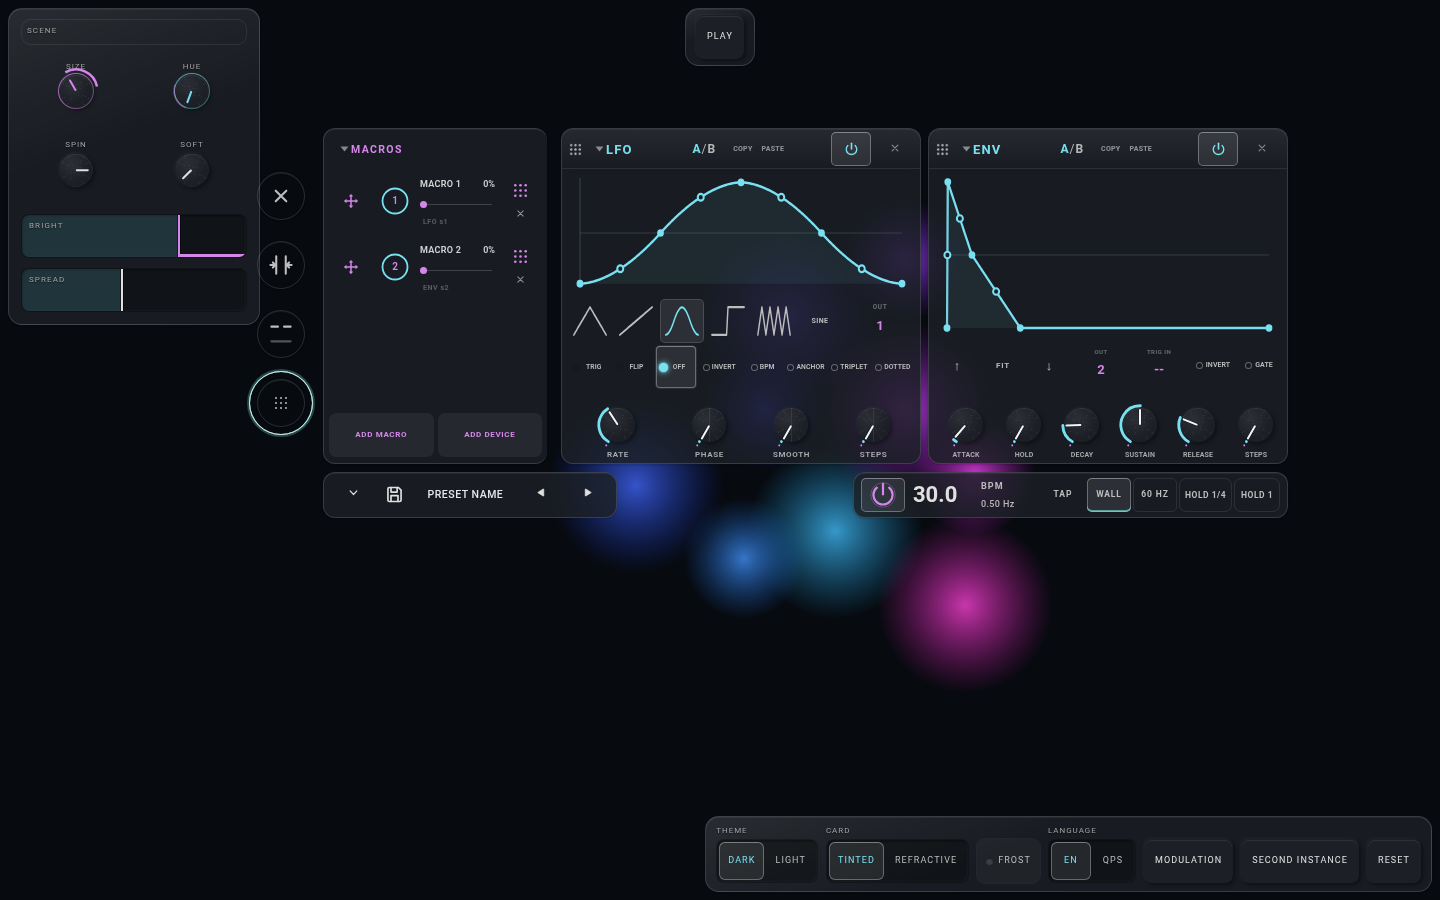
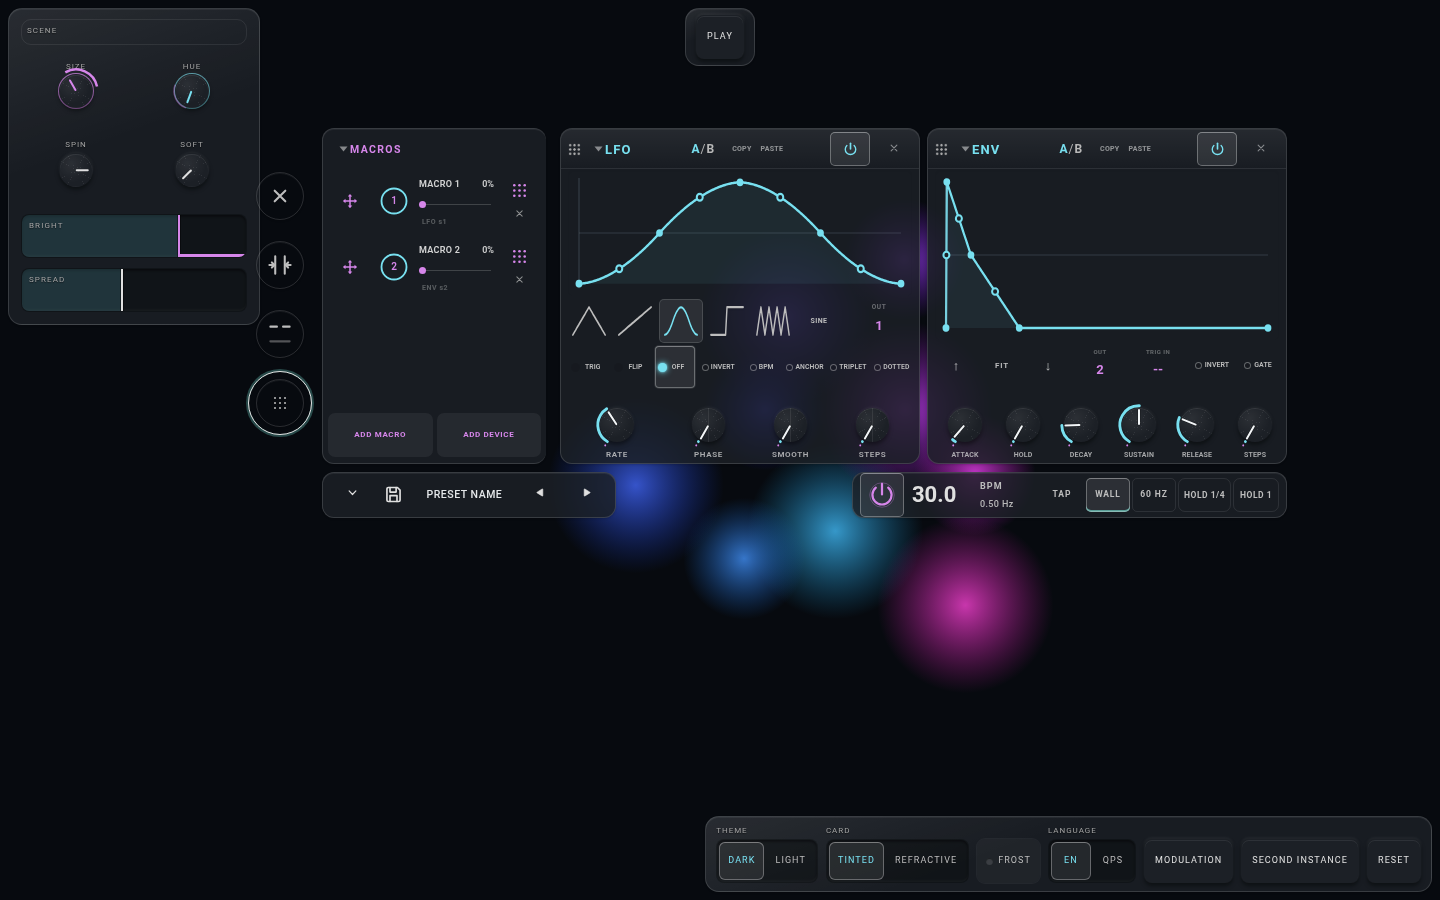
MIR 1.5.0-alpha.5: MODULATION — the docked work bar follows the last device; docked chips sit tighter
BASINS 2026-10-01 (Josh): docked, the right work bar ends at min(last device, run) as floating — the kit already
measured it so; the browser test now pins it (two devices, an overflowing run, every bar button hit).  A rail docked
at the top or bottom carries data-dock (rail.js setDock) and sits tighter along it: each chip its 48 px disc +
--rail-gap, --rail-gap apart (8 px disc to disc at the default, 4 tight, 0 flush; --rail-gap is two thirds of
SPACING's --rack-gap, at most 4); across, the 62 px target and the dock lane are unchanged.  window.css and
modhost.css carry it; the modulation controller sets it; window.js needs a one-line hunk (the join).  A status
message is no longer overwritten by the idle hint on a language change.  Plates retaken.

Claude-Session: https://claude.ai/code/session_01216PZJdRDXuZKuuo4X6KUw

diff --git a/mir/window/rail.js b/mir/window/rail.js
@@ -121,7 +121,10 @@ export const markForwarded = (e) => { forwarded.add(e); return e; };
  *  seats() → [{ id: side, rect }] — where the rail would land on each side (the window's own layout); onSide(side,
  *  phase) with phase 'preview' (keyboard, live), 'commit' or 'cancel' (back to where the keyboard started).
  *  → { el, grip, chip(name), setChip(name, state), state(name), measure(), sizes(), seat(seat, { animate }),
- *      holding(), destroy() } */
+ *      setDock(dock), holding(), destroy() }
+ *  setDock('top' | 'bottom' | null) — the rail carries its window's dock (data-dock): docked at the top or bottom, the
+ *  chips sit tighter along it (window.css, --rail-gap; BASINS 2026-10-01).  Its length changes, so the next sizes()
+ *  measures again; its width across does not (the dock lane is measured from it). */
 export function createRail({ id, title, chips = [], layer, seats, onChip, onSide, onNudge } = {}) {
   const doc = (layer && layer.ownerDocument) || document;
   const el = doc.createElement('div');
@@ -183,6 +186,7 @@ export function createRail({ id, title, chips = [], layer, seats, onChip, onSide
     size = v ? { vertical: a, horizontal: b } : { vertical: b, horizontal: a };
     return size;
   }
+  let stale = false;                                                 // the dock changed the rail's length: measure again
   /** seat(s, { animate }) — land the rail on a seat from seatRail().  Animated: the same orientation travels by
    *  tweenRect (position only), a turn of orientation lands at once and travels by flip. */
   const pos = (n, to) => { setVar(n, 'left', `${Math.round(to.left)}px`); setVar(n, 'top', `${Math.round(to.top)}px`); };
@@ -246,8 +250,9 @@ export function createRail({ id, title, chips = [], layer, seats, onChip, onSide
     chip: (name) => nodes.get(name),
     setChip, state: (name) => states.get(name),
     /* before the rail has ever been seen, the kit's chip target (62) and gap (7) stand in for a measurement */
-    measure, sizes: () => size || measure() || { vertical: { w: 62, h: 69 * nodes.size - 7 }, horizontal: { w: 69 * nodes.size - 7, h: 62 } },
+    measure, sizes: () => { if (stale) { stale = false; measure(); } return size || measure() || { vertical: { w: 62, h: 69 * nodes.size - 7 }, horizontal: { w: 69 * nodes.size - 7, h: 62 } }; },
     seat,
+    setDock(dock) { const d = dock === 'top' || dock === 'bottom' ? dock : null; if ((el.dataset.dock || null) === d) return; setAttr(el, 'data-dock', d); stale = true; },
     /** true from a long press until the next press: the window's drag stands down for it */
     holding: () => held,
     destroy() { holdCancel({}); prox.destroy(); el.remove(); },

diff --git a/mir/modulation/modhost.css b/mir/modulation/modhost.css
@@ -172,6 +172,10 @@
   /* 1.5.0-alpha.4 · modulation's POWER (BASINS transport-controls.css, its numbers): the drawing's weight and size, the
      halo at rest and lit, the ring's gap while off, and the press motion */
   --m2-power-sw: 1.9;
+  /* 1.5.0-alpha.5 · the docked rail's gap, as the window set's (window.css): two thirds of SPACING's --rack-gap, at most 4 px */
+  --rail-gap-max: 4px;
+  --rail-gap-share: .667;
+  --rail-gap: min(var(--rail-gap-max), calc(var(--rack-gap, 6px) * var(--rail-gap-share)));
   --m2-power-on-ink: var(--acc2);     /* lit in accent B, as BASINS (the time group: the tempo beside it is accent B too) */
   --m2-power-icon: 28px;
   --m2-power-seat: 44px;             /* the power button's seat on the work bar: 44 × 44, as BASINS draws it (transport-controls.css) */
@@ -2373,6 +2377,14 @@ html body :where(.crail.crail-float)[data-mir-rail="modulation"] .crail-chip:whe
    chips lie in a row (the rail measures one orientation and turns it). */
 .kwin-chiprail[data-mir-rail="modulation"]:is([data-side="top"], [data-side="bottom"]) {
   flex-direction: row; width: auto; height: var(--chrome-chip-target); }
+/* 1.5.0-alpha.5 · DOCKED, THE CHIPS SIT TIGHTER (BASINS, Josh 2026-10-01): along the rail each chip is its disc plus
+   --rail-gap and the chips stand --rail-gap apart (21 px disc to disc became 8 at the default); across, the 62 px target
+   stays, so the dock lane does not move. */
+.kwin-chiprail[data-mir-rail="modulation"]:is([data-dock="top"], [data-dock="bottom"]) { gap: var(--rail-gap); }
+.kwin-chiprail[data-mir-rail="modulation"]:is([data-dock="top"], [data-dock="bottom"]):not([data-side="top"], [data-side="bottom"]) .crail-chip {
+  flex-basis: calc(var(--chrome-chip-disc) + var(--rail-gap)); height: calc(var(--chrome-chip-disc) + var(--rail-gap)); min-height: 0; }
+.kwin-chiprail[data-mir-rail="modulation"]:is([data-dock="top"], [data-dock="bottom"]):is([data-side="top"], [data-side="bottom"]) .crail-chip {
+  flex-basis: calc(var(--chrome-chip-disc) + var(--rail-gap)); width: calc(var(--chrome-chip-disc) + var(--rail-gap)); min-width: 0; }
 
 /* ROUTING SHOWS WHERE IT WILL LAND (core/proximity.js).  The glow's overlays live in .m2route-glow, where the accent
    is accent B — a route is a relationship — so core.css draws them in it without a rule of its own. */

diff --git a/mir/window/window.css b/mir/window/window.css
@@ -29,6 +29,12 @@
   /* ON reads the semantic tier (a skin may set it); the fallbacks are §56's: the plugin's frost at its default blend */
   --chip-on: var(--state-on, hsl(0 0% 100% / .086));
   --chip-on-rim: var(--state-on-rim, inset 0 0 0 1px var(--chip-rim), inset 0 1px 0 hsl(0 0% 100% / .12));
+  /* 1.5.0-alpha.5 · A DOCKED RAIL SITS TIGHTER (BASINS, Josh 2026-10-01: "Reduce the padding on all the chips when docked"):
+     along the rail each chip is its disc plus --rail-gap, and the chips stand --rail-gap apart.  It follows SPACING through
+     --rack-gap (gui.js writes it on <html>): two thirds of it, at most 4 px — 4 at the default (6), 2 at tight (3), 0 flush. */
+  --rail-gap-max: 4px;
+  --rail-gap-share: .667;
+  --rail-gap: min(var(--rail-gap-max), calc(var(--rack-gap, 6px) * var(--rail-gap-share)));
 }
 body[data-theme="light"] .mir-rail { --chip-rim: hsl(214 30% 40% / .34); }
 body:is([data-card="tinted"], [data-card="solid"]) .mir-rail { --chip-fill: var(--surface-fill, hsl(var(--glass-tint) / var(--card-opacity))); }
@@ -63,6 +69,12 @@ body.frost.frost-hold[data-card="refractive"] .mir-rail { --chip-filter: none; -
   margin: 0; padding: 0; pointer-events: auto;
 }
 .mir-rail:is([data-side="top"], [data-side="bottom"]) { flex-direction: row; }
+/* docked at the top or bottom: tighter ALONG the rail; across it the 62 px target stays (the dock lane is measured from it) */
+.mir-rail:is([data-dock="top"], [data-dock="bottom"]) { gap: var(--rail-gap); }
+.mir-rail:is([data-dock="top"], [data-dock="bottom"]):not([data-side="top"], [data-side="bottom"]) > .mir-chip {
+  flex-basis: calc(var(--chrome-chip-disc) + var(--rail-gap)); height: calc(var(--chrome-chip-disc) + var(--rail-gap)); }
+.mir-rail:is([data-dock="top"], [data-dock="bottom"]):is([data-side="top"], [data-side="bottom"]) > .mir-chip {
+  flex-basis: calc(var(--chrome-chip-disc) + var(--rail-gap)); width: calc(var(--chrome-chip-disc) + var(--rail-gap)); }
 
 /* ── THE CHIP: a 62 px target around a 48 px disc ─────────────────────────────────────────────────────────── */
 .mir-chip {

diff --git a/mir/modulation/window.js b/mir/modulation/window.js
@@ -251,7 +251,8 @@ export function createModulation(host, port) {
   const status = (msg, cls) => {
     hintMsg = msg || ''; hintCls = cls || '';
     hintAt = hintMsg ? performance.now() : 0;
-    if (hintMsg) mw.hint.textContent = hintMsg; else label(mw.hint, mw.copy.hint);
+    /* a message is not a label: its English key goes, so a language pass never writes the idle hint over it */
+    if (hintMsg) { delete mw.hint.dataset.t; delete mw.hint.dataset.tVars; mw.hint.textContent = hintMsg; } else label(mw.hint, mw.copy.hint);
     mw.hint.classList.toggle('m2dead', !!hintMsg && hintCls === 'warn');
     mw.hint.classList.toggle('m2say', !!hintMsg);
     if (hintTimer) { clearTimeout(hintTimer); hintTimer = 0; }
@@ -365,7 +366,11 @@ export function createModulation(host, port) {
       if (P.x + w > v.width - 8) P.x = Math.max(8, v.width - 8 - w);
       lastW = w;
     }
-    const { L, seat } = layoutOf(P);
+    /* the rail carries the dock (data-dock): docked at the top or bottom its chips sit tighter, so its length is set first */
+    const wantDock = P.dock && dockOpt ? P.dock : null;
+    rail.setDock(wantDock);
+    let { L, seat } = layoutOf(P);
+    if ((L.docked || null) !== wantDock) { rail.setDock(L.docked); ({ L, seat } = layoutOf(P)); }   // no room to dock: it floats for now
     box = L.box;
     /* THE CLAMP IS THE HOUSE'S (window.js CLAMP: a header stays reachable, 120 px across and 52 down); a floating
        window keeps the clamped place as its own */

diff --git a/docs/MODULATION.md b/docs/MODULATION.md
@@ -126,7 +126,7 @@ As BASINS has it (`modulation.js setArm` → `host.clock.setModulationEnabled`; 
 - **BEHAVIOUR CHANGE (1.5.0-alpha.4): the window's play button is modulation's POWER button.** Josh, 2026-10-01: *"we're making modulation a power button and no longer a play button because it will remove the confusion between 'two' clocks. Timeline will have the true play while Modulation will now have a power button like Basins."* An app that relied on the window's play to start time must now give the user its own play (`mod.play`); an app that used `arm` / `setEnabled` to stop modulation now gets a bypass that leaves time running. BASINS' glyph (halo, ring, stem), its open-ring-when-off motion and its `aria-pressed`; ON is the frost face and its rim, lit in accent B, as BASINS (the time group: the tempo beside it is accent B too).
 
 - **New:** `window.js` (the controller) and `bind.js` (the seam). `mod.js` `setPresetKey(key)` / `presetKeyOf()`; `PRESET_LS` is now the default, not the only key.
-- **The rail** is `createRail`, re-classed with the plugin's material. Its grip is a `<button>` (it was a `<div>`): it takes focus, arrows move the seat, Enter keeps, Escape restores, Shift+arrows nudge. A long press shows the four seats. On a top or bottom seat the chips lie in a row.
+- **The rail** is `createRail`, re-classed with the plugin's material. Its grip is a `<button>` (it was a `<div>`): it takes focus, arrows move the seat, Enter keeps, Escape restores, Shift+arrows nudge. A long press shows the four seats. On a top or bottom seat the chips lie in a row. **Docked** at the top or bottom (1.5.0-alpha.5, as BASINS), the rail carries `data-dock` and its chips sit tighter along it: each is its 48 px disc + `--rail-gap`, `--rail-gap` apart (8 px disc to disc at the default spacing, was 21; 4 tight; 0 flush); across, the 62 px target and the dock lane are unchanged. Docked or floating, the right work bar ends at the last device, or at the run's right edge when the run overflows.
 - **The window docks** at the top or bottom of the span, with the chip lane on its chip side; it detaches by dragging away. `presentation()` gains `dock` and `chipSide`; older records restore as floating, chips left.
 - **Open and close travel** (`presence`). `close()` reports `moved(null)`.
 - **Routing:** faders route; the proximity glow; the badges, pop-over and arming paint moved from the apps into `modhost.css` (`.k.has-ring > .k-dial` no longer slides 10 px left — every app had overridden it).
